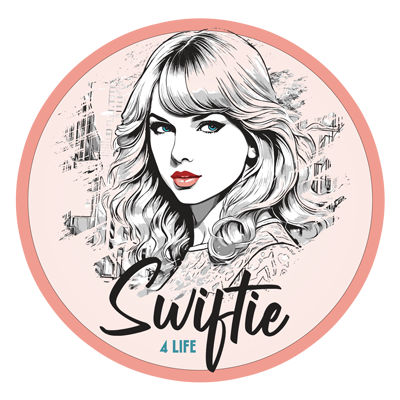
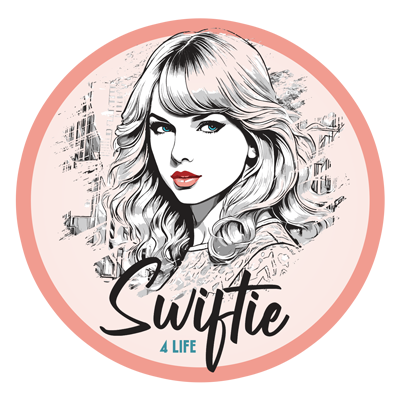
chore(assets): dark artwork for Swiftie — the stroke set is now empty
New light and dark chat crests, with both icons cut from them (0.35 and
0.07 per-channel off their crests).

Swiftie was the LAST franchise wearing a stroke, and only because it opted
in at 91% legible. With an iconDark it leaves the set by construction, so
withStrokeColors now emits ZERO rules for either league.

Consequences, all of them forced:
- StrokeDefaultWhite deleted. It had just been repointed here from Saints;
  keeping it would have made a third swap story that silently passes. The
  file has no stroke story left, and swift.png leaves the trigger list.
- tests/dark-surface-crest.test.ts had three real-franchise fixtures that
  had already been moved off hardcoded ids in #687 and now find nothing:
  the custom-colour case, the throwback flagged-id case, and the sweep's
  `checked > 0` vacuity guard. First two go synthetic; the sweep keeps its
  real-data loop and gains a synthetic positive so an empty stroke set
  cannot make it vacuous.

The mechanism stays — it is what catches the next franchise added without
dark art — but nothing in the data exercises it, so everything pinning it
is synthetic now.

diff --git a/tests/dark-surface-crest.test.ts b/tests/dark-surface-crest.test.ts
@@ -147,19 +147,18 @@ describe('resolveDarkSurfaceCrest — the ring', () => {
   });
 
   it('picks up a manifest-flagged franchise in its own colour', () => {
-    // FIND the franchise, never name one (#687). Every franchise in both
-    // leagues is on track for dark artwork, and a franchise with an `iconDark`
-    // may not carry `iconStrokeDark` at all (`crest-dark-stroke.test.ts`
-    // enforces that), so a hardcoded id here is a scheduled failure.
-    const index = crestStrokeIndex('afl', afl.teams);
-    const named = afl.teams.find(
-      (t: any) => typeof t.iconStrokeDark === 'string' && !t.iconDark
+    // Synthetic, because searching for a real franchise ran out (#687 moved
+    // this off a hardcoded id; the search itself then found nothing). Every
+    // franchise now carries an `iconDark`, which may not coexist with
+    // `iconStrokeDark` at all, or opts out with `false` — so ZERO franchises
+    // name their own colour and there is nothing to find.
+    const index = new Map<string, string | false | undefined>([['9999', '#ff769f']]);
+    const out = resolveDarkSurfaceCrest(
+      { franchiseId: '9999', groupMe: '/gm.png' },
+      'afl',
+      index
     );
-    // Guard the search, or this passes vacuously on `undefined` once no
-    // franchise names its own colour any more.
-    expect(named, 'no AFL franchise names its own stroke colour').toBeDefined();
-    expect(resolveDarkSurfaceCrest(named, 'afl', index).strokeColor)
-      .toBe(named.iconStrokeDark);
+    expect(out.strokeColor).toBe('#ff769f');
   });
 
   it('honours an opt-out that only the INDEX knows about', () => {
@@ -243,9 +242,20 @@ describe('every franchise, both leagues', () => {
         checked++;
         expect(out.filter, `${t.nameMedium || t.name} light art with no ring`).toBeTruthy();
       }
-      // A rewrite that quietly stopped resolving light art would make the loop
-      // vacuous and the assertion meaningless.
-      if (league === 'afl') expect(checked).toBeGreaterThan(0);
+      // The loop above is vacuous TODAY: the site rings nothing in either
+      // league any more, so `ringedSiteWide` is empty and `checked` is 0. That
+      // is correct data, not a broken sweep — but it means the sweep can no
+      // longer catch a rewrite that stopped ringing light art. Pin that path
+      // synthetically so the guarantee survives an empty stroke set.
+      // Deliberately NOT asserting `checked === ringedSiteWide.size`: a crest
+      // the site rings may legitimately resolve to a dark cut here and drop out
+      // of the loop, which is the case the comment above describes.
+      const ringed = resolveDarkSurfaceCrest(
+        { franchiseId: '9999', groupMe: '/gm.png' },
+        league,
+        new Map<string, string | false | undefined>([['9999', undefined]])
+      );
+      expect(ringed.filter, 'light art must still be ringed when flagged').toBeTruthy();
     });
   }
 });
@@ -291,10 +301,12 @@ describe('throwback brands stay on era artwork', () => {
     // A franchise the manifest DOES flag, dressed in era art, stays unringed
     // even though the index still holds a colour for its id. Take that id off
     // the manifest itself rather than naming one (#687).
-    const index = crestStrokeIndex('afl', afl.teams);
-    const flaggedId = [...index.entries()].find(([, v]) => v !== false)?.[0];
-    expect(flaggedId, 'no AFL franchise is flagged for a stroke').toBeDefined();
-    const flagged = { franchiseId: flaggedId, groupMe: '/era.png', ...eraCrestOverrides(true) };
+    // Synthetic id: no AFL franchise is flagged for a stroke any more (every
+    // one either carries an `iconDark` or opts out), so there is no real id to
+    // take off the manifest. The point stands regardless — the index holding a
+    // colour for an id must not ring that id once it is dressed in era art.
+    const index = new Map<string, string | false | undefined>([['9999', '#ff769f']]);
+    const flagged = { franchiseId: '9999', groupMe: '/era.png', ...eraCrestOverrides(true) };
     expect(resolveDarkSurfaceCrest(flagged, 'afl', index).filter).toBeUndefined();
     // Spread over a modern brand, the false branch has to leave it intact.
     const t = theleague.teams.find((x: any) => x.iconDark && x.groupMeDark);

diff --git a/stories/theming/TeamIconCell.stories.ts b/stories/theming/TeamIconCell.stories.ts
@@ -50,18 +50,23 @@ import { themeModes } from '../../.storybook/modes';
  * custom-stroke and Running down the Dream off default-white while this branch
  * was open, and both stories kept passing while testing the wrong thing.
  *
- * The sweep has since reached all of them. As of the end of Sept 2026 the
- * ENTIRE stroke set is one franchise — Swiftie 4 Life, and only because it
- * opts IN at 91% legible. Default white has NO team left (the four the
- * manifest still flags all opt out with `iconStrokeDark: false`), and custom
- * colour has none either, since Swiftie's `#ffffff` is the default hue.
+ * The pool did not shrink; it emptied. As of the end of Sept 2026 the stroke
+ * set is EMPTY — `withStrokeColors` emits zero rules for either league. Every
+ * franchise the manifest flags now either carries an `iconDark` (which excludes
+ * it by construction) or opts out with `iconStrokeDark: false`. Swiftie 4 Life
+ * was the last one wearing a ring and took dark artwork too.
  *
- * So the pool is not shrinking any more; it has essentially run out. The two
- * stroke stories here collapsed into one, and the branch coverage moved to
- * synthetic fixtures in `tests/broadcast-crest.test.ts`, which do not depend on
- * a franchise staying un-arted. If Swiftie ever gains an `iconDark`, this story
- * has nothing to point at either — delete it rather than pointing it at a crest
- * that no longer strokes.
+ * So there are no stroke stories here any more — StrokeDefaultWhite and
+ * StrokeCustomColor were both deleted rather than repointed at crests that no
+ * longer stroke, which is the failure mode this file keeps hitting: a repointed
+ * story keeps passing while silently testing the swap branch.
+ *
+ * The mechanism is still live code and still worth having — it is what catches
+ * the NEXT franchise added without dark art. Its branches are pinned
+ * synthetically instead, in `tests/broadcast-crest.test.ts` and
+ * `tests/crest-dark-stroke.test.ts`, neither of which depends on a franchise
+ * staying un-arted. `StrokeExplicitlyOptedOut` below survives because its
+ * branch — `iconStrokeDark: false` — still has four real subjects.
  */
 export default {
   title: 'Theming/TeamIconCell',
@@ -98,43 +103,6 @@ export const DarkSwapAvailableAfl = {
   args: {
     icon: '/assets/afl/icons/ninjas.png',
     name: 'The Mariachi Ninjas',
-  },
-};
-
-/**
- * THE STROKE, and there is now only one franchise left wearing one.
- *
- * A crest with no dark variant gets an outline so it does not dissolve into a
- * dark card. Swiftie 4 Life is the last franchise that renders one: its
- * `iconStrokeDark: "#ffffff"` is a config OPT-IN (the measurement scores it 91%
- * legible and never flagged it), and white happens to be the same hue the
- * shared default rule uses, so this story shows exactly what the default branch
- * looks like too.
- *
- * **No franchise can reach the true default branch any more.** It needs a team
- * that the manifest flagged AND that declares no colour; all four flagged teams
- * left (Minty Fresh, Ditka, Cowboy Up, Dark Magicians) set `iconStrokeDark:
- * false`, so they opt out instead. There is nothing to point a separate
- * default-white story at — `tests/broadcast-crest.test.ts` covers that branch
- * synthetically for the same reason.
- *
- * A companion `StrokeCustomColor` story lived here until the dark-artwork
- * sweep took its subject for the fourth time (The Show, then No Soup For You,
- * then Suh girls, each on gaining an `iconDark`). It was deleted rather than
- * repointed a fifth time: Swiftie is the only franchise left declaring a
- * colour, and `#ffffff` is the default hue spelled differently, so the story
- * would have been visually identical to this one.
- *
- * The swap and the stroke are mutually exclusive by construction: the manifest
- * and `withStrokeColors` both exclude any team with an `iconDark`, so a crest
- * can never get both. That is also why this story keeps losing subjects — and
- * why a franchise named here gaining dark artwork silently turns it into a swap
- * story that still passes. Check by hand.
- */
-export const StrokeDefaultWhite = {
-  args: {
-    icon: '/assets/afl/icons/swift.png',
-    name: 'Swiftie 4 Life',
   },
 };
 
